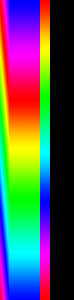
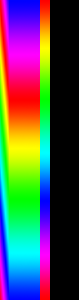
Add sparkpoofers s1-s5.  Magic image size is now 79.

Changed region(s): [[0.6216, 0.0, 0.6757, 1.0], [0.4865, 0.0, 0.5405, 1.0], [0.0541, 0.0, 0.1351, 1.0]]

diff --git a/brain/Soma.cc b/brain/Soma.cc
@@ -95,6 +95,12 @@ Soma::Soma()
         digitalNames.push_back("a8a");
         digitalNames.push_back("a8b");
         digitalNames.push_back("a8c");
+
+        digitalNames.push_back("s1");
+        digitalNames.push_back("s2");
+        digitalNames.push_back("s3");
+        digitalNames.push_back("s4");
+        digitalNames.push_back("s5");
 }
 
 Soma::~Soma()

diff --git a/brain/EventMachine.cc b/brain/EventMachine.cc
@@ -19,7 +19,7 @@
 #include <sstream>
 #include <png.h>
 
-#define PNG_WIDTH 74
+#define PNG_WIDTH 79
 
 
 EventMask::EventMask(string mask)
